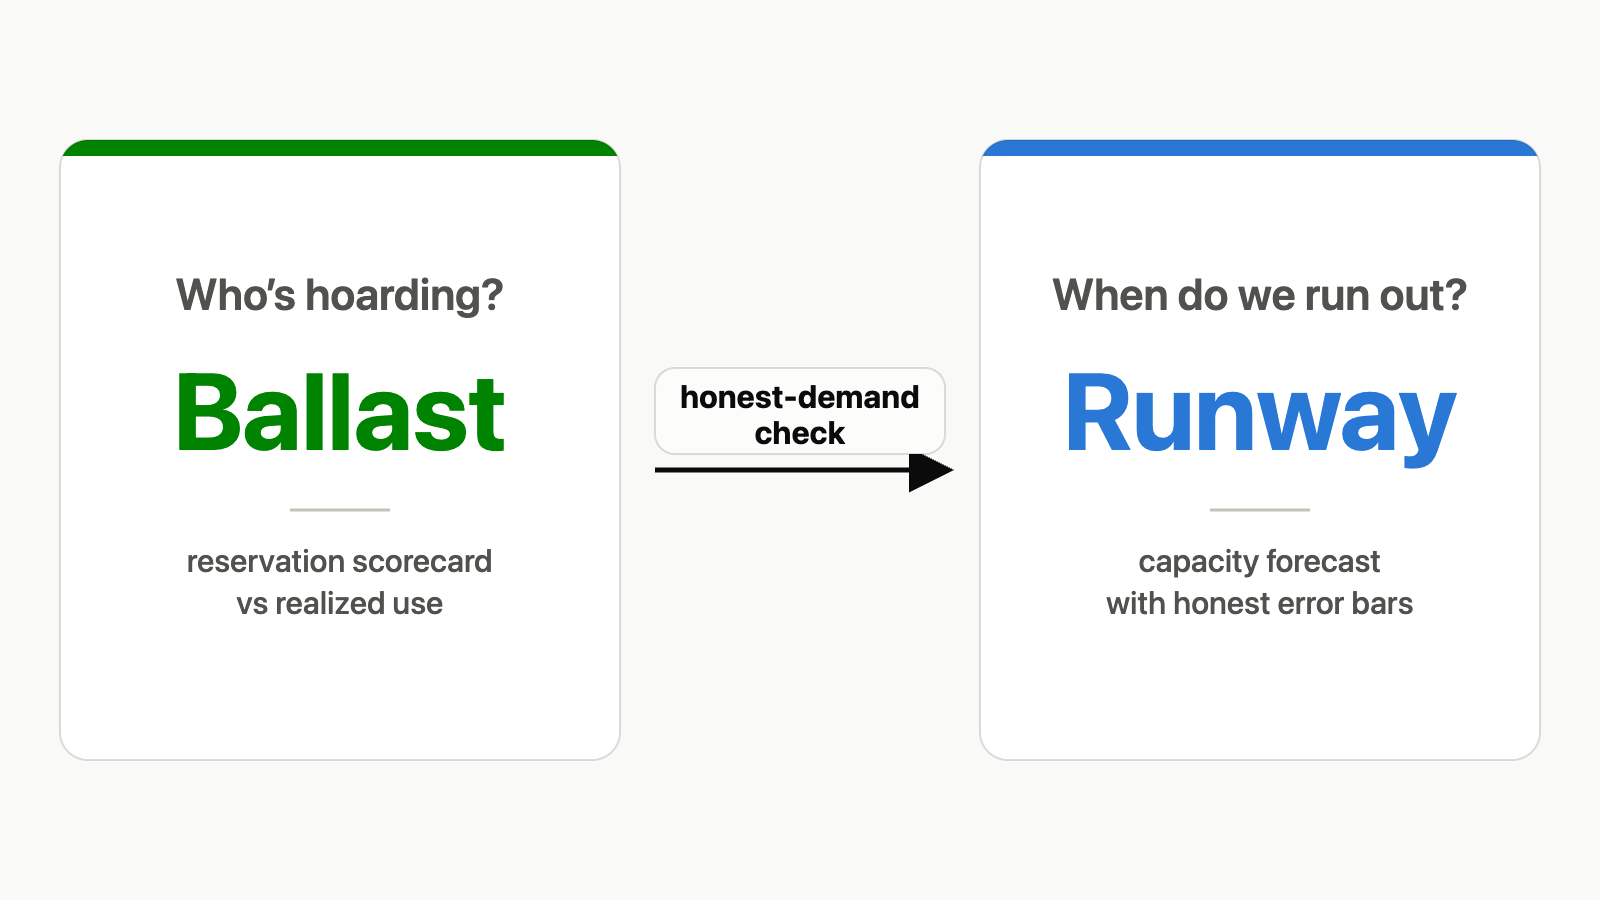
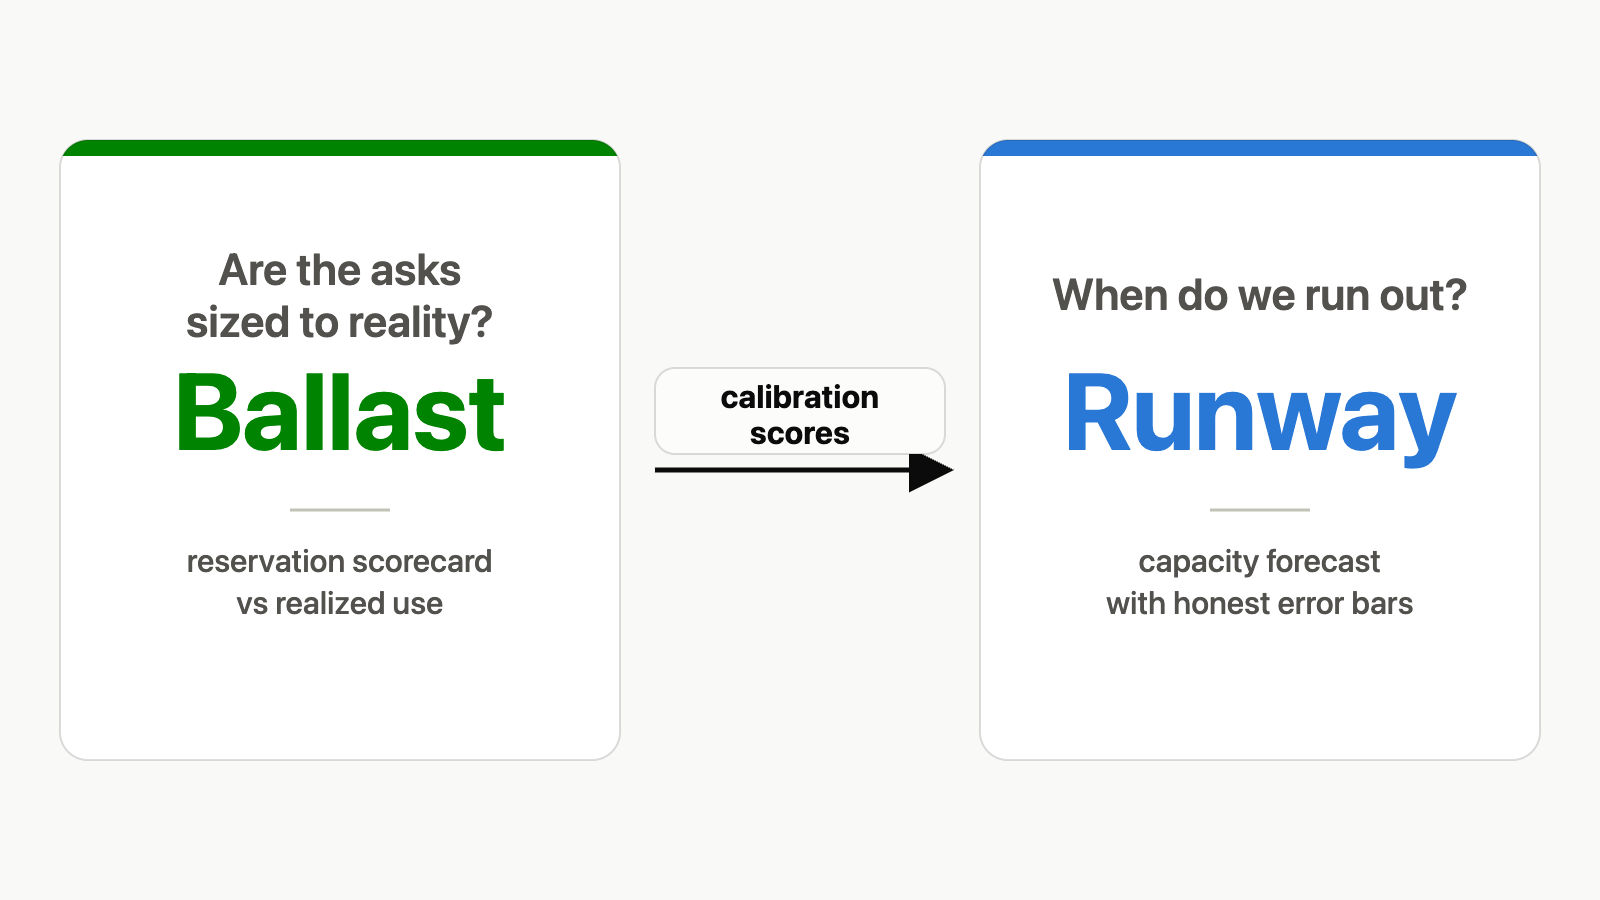
Update diagram to match reframe: asks-sized-to-reality + calibration scores

Changed region(s): [[0.0938, 0.28, 0.3125, 0.3733], [0.4062, 0.4356, 0.5938, 0.4978]]

diff --git a/linkedin/2026-07-runway-ballast.md b/linkedin/2026-07-runway-ballast.md
@@ -24,7 +24,7 @@ The output is not a correction factor for the upcoming quarter. It's a map of fo
 
 Runway is the planning side: a vendor-neutral, open-source tool that forecasts your capacity runway (the date demand crosses what you've deployed) with a band showing the range the data actually supports, and ranks which intervention extends that date cheapest. Feed it Ballast's scores and it shows the plan as stated next to the plan the track records support; the gap between them is the cost of the mismatch, in dates and dollars. The cross-team calibration view lives on the executive dashboard, with the people who review the forecasts, because the forecast provider's own asks are the thing being scored — while every team still sees its own score, since the feedback loop only works when the scored party can see the scoreboard.
 
-![Who's hoarding? → Ballast; When do we run out? → Runway](2026-07-runway-ballast-diagram.png)
+![Are the asks sized to reality? → Ballast; When do we run out? → Runway](2026-07-runway-ballast-diagram.png)
 
 *Two questions, two tools, one plan: Runway forecasts the run-out date; Ballast scores whether the asks feeding it match realized use.*
 